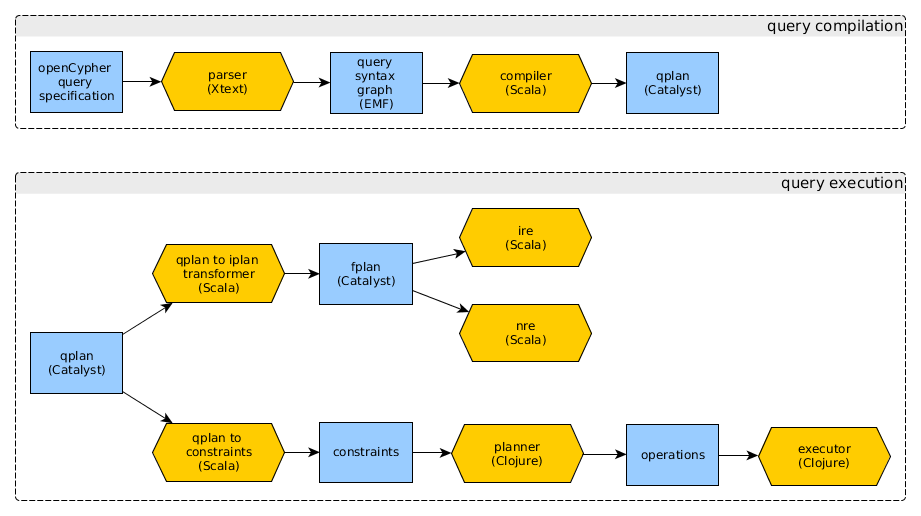
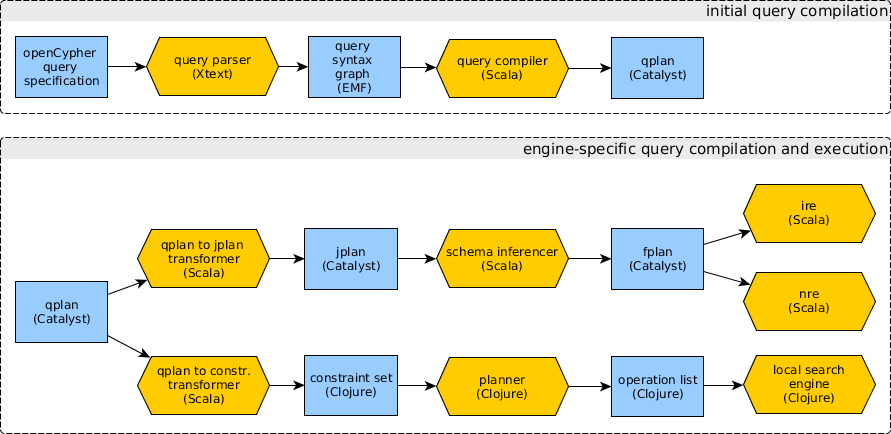
Tidy docs

diff --git a/docs/ingraph-workflow.md b/docs/ingraph-workflow.md
@@ -2,22 +2,26 @@
 
 ![](opencypher-to-incremental-queries-workflow.png)
 
-## Processes (yellow)
+## Initial query compilation
 
-* **query parser:** [Xtext](https://eclipse.org/Xtext/)-based parser.
-* **Cypher to relational algebra transformer:** [Xtend](http://www.eclipse.org/xtend/)-based transformation from syntax graph to a relational algebra tree.
-* **relational algebra optimizer:** query optimizer using graph rewriting with [VIATRA-DSE](https://wiki.eclipse.org/VIATRA/DSE).
-* **relational algebra to Rete network transformer:** transforms the relational algebra tree to a Rete network using [VIATRA Query](https://wiki.eclipse.org/VIATRA/Query) patterns.
-* **incremental relational query engine:** a query engine that is able to instantiate a Rete network and continuously maintain its state. The implementation uses the  [IRE](https://github.com/FTSRG/ire) library.
+* :page_facing_up: `openCypher query specification`: the query as a string
+* :hourglass_flowing_sand: `query parser`: an [Xtext](https://eclipse.org/Xtext/)-based parser, using the [openCypher grammar of the Slizaa project](https://github.com/slizaa/slizaa-opencypher-xtext).
+* :page_facing_up: `query syntax graph`: the abstract syntax graph of the query, represented in an EMF model.
+* :hourglass_flowing_sand: `compiler`: a Scala-based compiler that transforms the syntax graph to a query plan.
+* :page_facing_up: `qplan`: a query plan in relational graph algebra
 
-## Artifacts (blue)
+## Engine-specific query compilation and execution
 
-* **openCypher query specification:** the query as a string.
-* **query syntax graph:** the abstract syntax graph of the query.
-* **relational algebra model:** query model using the extended operators of relational algebra, defined in [Xcore](https://wiki.eclipse.org/Xcore). For the operators, see our [openCypher report](http://docs.inf.mit.bme.hu/ingraph/pub/opencypher-report.pdf).
-* **Rete network model:** a [Rete network](https://inf.mit.bme.hu/en/research/publications/incquery-d-distributed-incremental-model-query-framework-cloud) for incremental query evaluation defined in [Xcore](https://wiki.eclipse.org/Xcore). Also see our [openCypher report](docs.inf.mit.bme.hu/ingraph/pub/opencypher-report.pdf) for details.
-* **Rete network:** a continuously operating Rete network, using the [Akka](http://akka.io/) distributed asynchronous framework.
-
-## Example
-
-![](opencypher-to-incremental-queries-instances.png)
+* relational engines:
+  * :hourglass_flowing_sand: `qplan to jplan transformer`:
+  * :page_facing_up: `jplan`: a query plan in join-based algebra
+  * :hourglass_flowing_sand: `schema inferencer`:
+  * :page_facing_up: `fplan`: a query plan in flat relational algebra
+    * :hourglass_flowing_sand: `ire`: incremental relational engine
+    * :hourglass_flowing_sand: `nre`: a naive relational engine
+* search-based engine:
+  * :hourglass_flowing_sand: `qplan to constraints transformer`: transforms the query plan to a set of constraints
+  * :page_facing_up: `constraints`: Datalog-style constraints that describe the query
+  * :hourglass_flowing_sand: `planner`: transforms the query plan to a list of operations
+  * :page_facing_up: `operations`: operations that define the search plan for the local search engine
+  * :hourglass_flowing_sand: `local search engine`: an executor for local search
